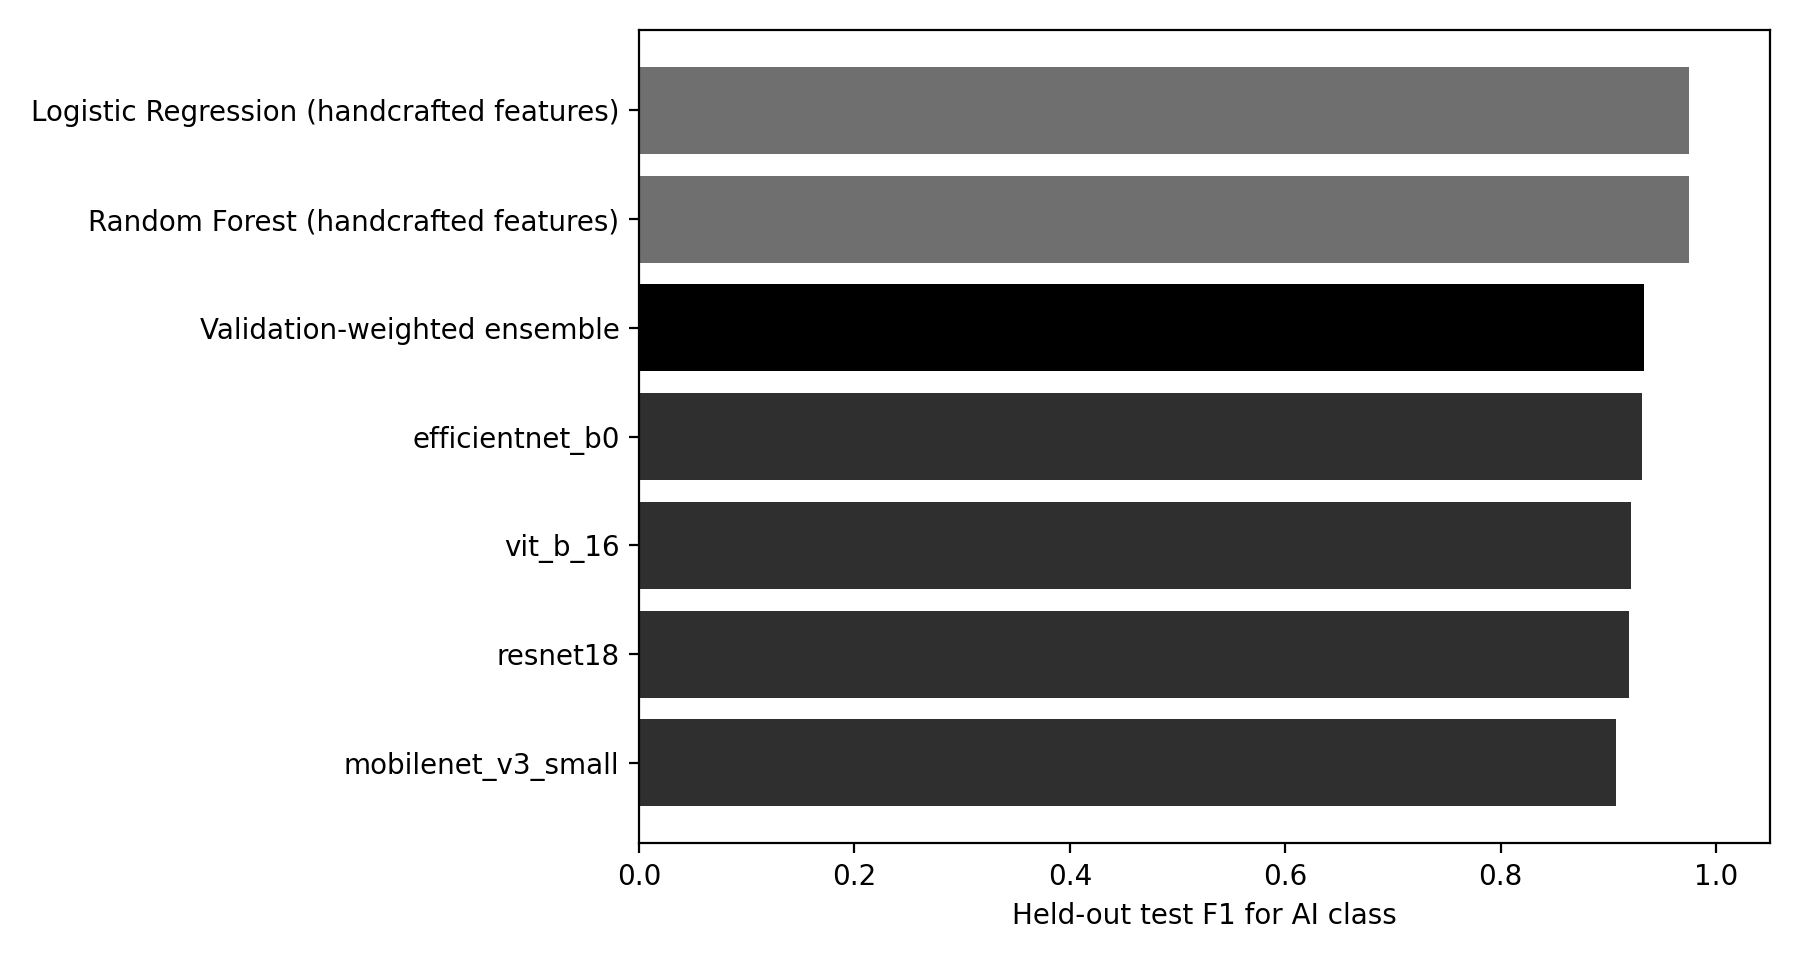
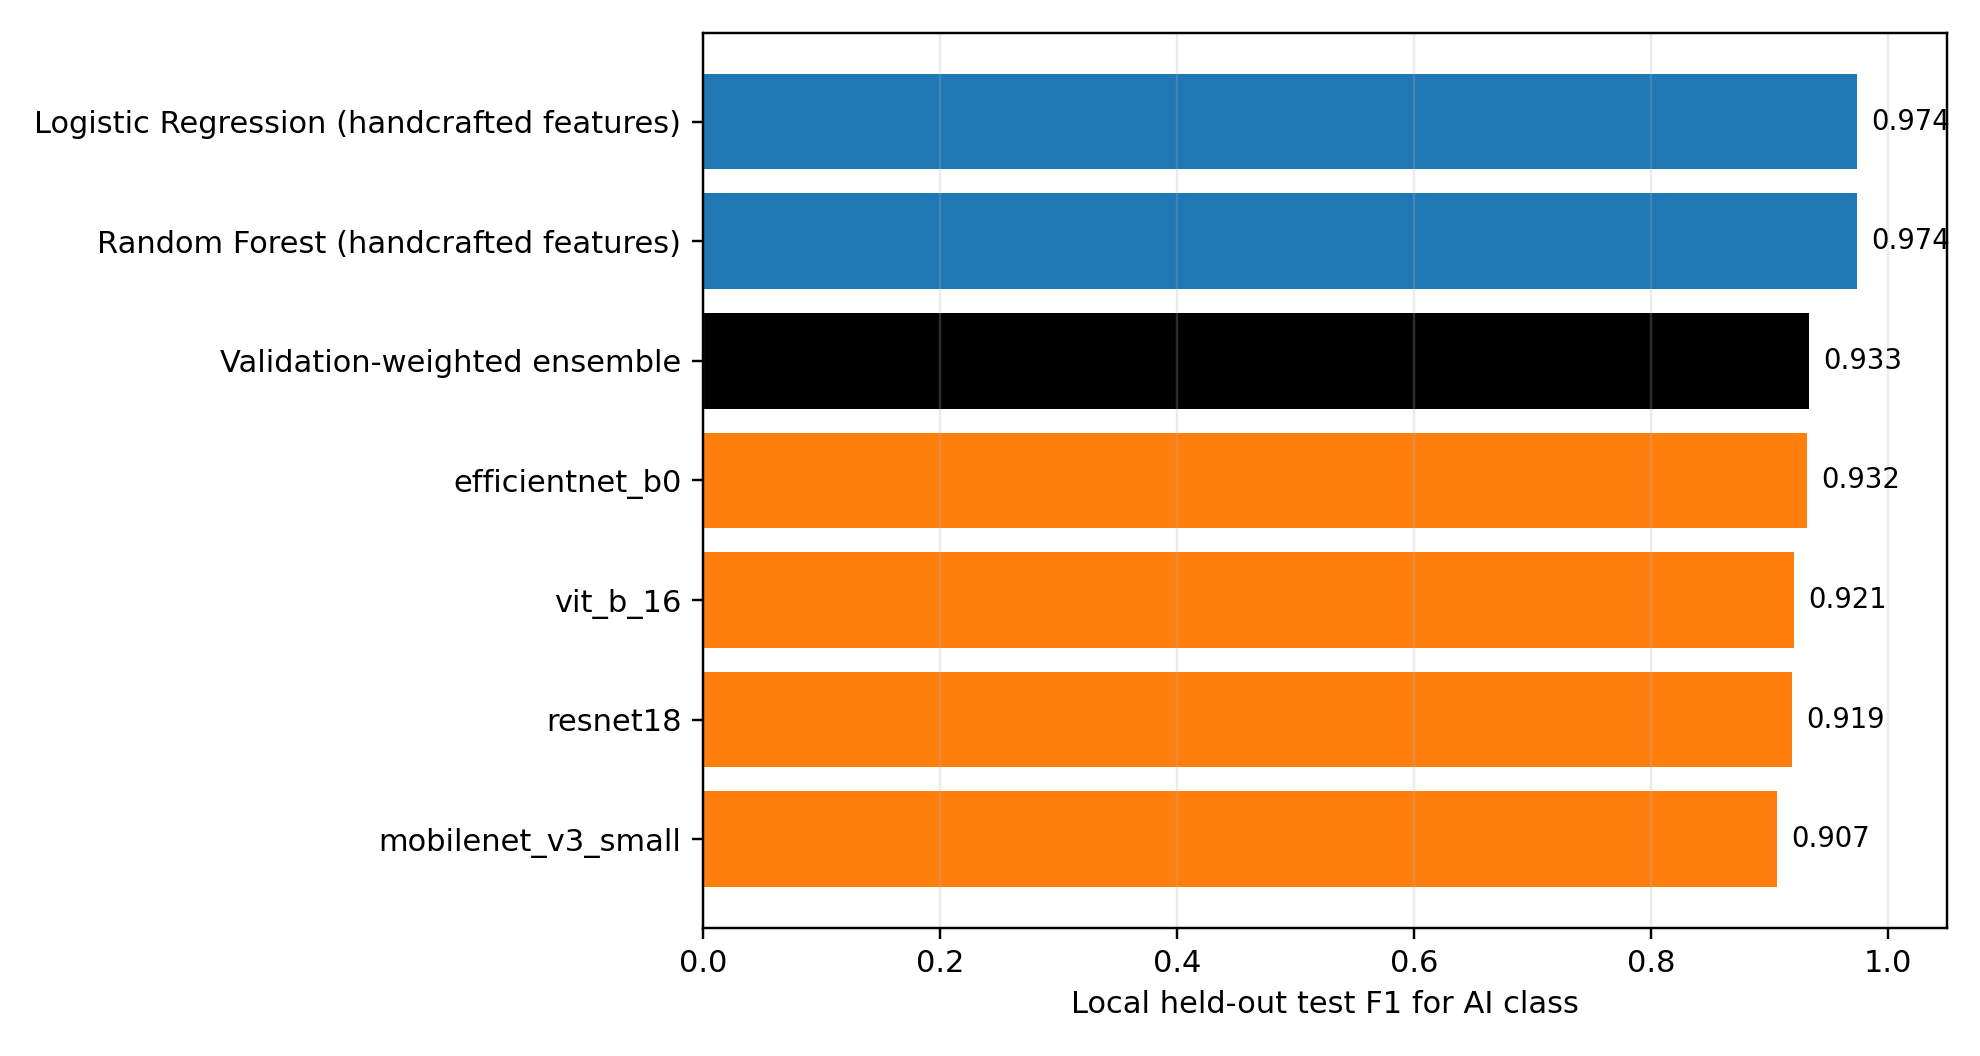
Remove stale report artifacts and normalize labels

diff --git a/compare_course_vs_transfer.py b/compare_course_vs_transfer.py
@@ -215,12 +215,12 @@ def train_course_models(df: pd.DataFrame):
         val_prob = model.predict_proba(x_val)[:, AI_CLASS_ID]
         threshold = best_threshold(y_val, val_prob)
         val_metrics = metric_dict(y_val, val_prob, threshold)
-        val_metrics.update({"model": name, "model_family": "Course ML", "split": "validation"})
+        val_metrics.update({"model": name, "model_family": "Classical ML", "split": "validation"})
         rows.append(val_metrics)
 
         test_prob = model.predict_proba(x_test)[:, AI_CLASS_ID]
         test_metrics = metric_dict(y_test, test_prob, threshold)
-        test_metrics.update({"model": name, "model_family": "Course ML", "split": "test"})
+        test_metrics.update({"model": name, "model_family": "Classical ML", "split": "test"})
         rows.append(test_metrics)
 
     return pd.DataFrame(rows)
@@ -343,12 +343,12 @@ def evaluate_transfer_models(df: pd.DataFrame):
         val_ensemble = np.average(np.vstack([val_probs_by_model[name] for name in order]), axis=0, weights=weights)
         ensemble_threshold = best_threshold(y_val_ref, val_ensemble)
         val_metrics = metric_dict(y_val_ref, val_ensemble, ensemble_threshold)
-        val_metrics.update({"model": "Validation-weighted ensemble", "model_family": "Final Ensemble", "split": "validation"})
+        val_metrics.update({"model": "Validation-weighted ensemble", "model_family": "Local Ensemble", "split": "validation"})
         rows.append(val_metrics)
 
         test_ensemble = np.average(np.vstack([test_probs_by_model[name] for name in order]), axis=0, weights=weights)
         test_metrics = metric_dict(y_test_ref, test_ensemble, ensemble_threshold)
-        test_metrics.update({"model": "Validation-weighted ensemble", "model_family": "Final Ensemble", "split": "test"})
+        test_metrics.update({"model": "Validation-weighted ensemble", "model_family": "Local Ensemble", "split": "test"})
         rows.append(test_metrics)
 
         cm = confusion_matrix(y_test_ref, test_ensemble >= ensemble_threshold, labels=[0, 1])
@@ -383,9 +383,9 @@ def main():
     test_results = all_results[all_results["split"] == "test"].copy()
     plt.figure(figsize=(9, 4.8))
     colors = {
-        "Course ML": "#6f6f6f",
+        "Classical ML": "#6f6f6f",
         "Transfer Learning": "#2f2f2f",
-        "Final Ensemble": "#000000",
+        "Local Ensemble": "#000000",
     }
     bar_colors = [colors.get(family, "#444444") for family in test_results["model_family"]]
     plt.barh(test_results["model"], test_results["f1_ai"], color=bar_colors)

diff --git a/tiny_genimage_5k_compare.py b/tiny_genimage_5k_compare.py
@@ -339,7 +339,7 @@ def main():
         threshold = best_threshold(y_val, val_prob)
         test_prob = model.predict_proba(x_test)[:, AI_CLASS_ID]
         metrics = metric_dict(y_test, test_prob, threshold)
-        metrics.update({"model": model_name, "model_family": "Course ML", "split": "test"})
+        metrics.update({"model": model_name, "model_family": "Classical ML", "split": "test"})
         rows.append(metrics)
         print(model_name, metrics)
 
@@ -354,7 +354,7 @@ def main():
     ].sort_values("f1_ai", ascending=False)
     results.to_csv(OUT_DIR / "tiny_genimage_5k_model_comparison.csv", index=False)
 
-    colors = {"Course ML": "#1f77b4", "Transfer Learning": "#ff7f0e"}
+    colors = {"Classical ML": "#1f77b4", "Transfer Learning": "#ff7f0e"}
     plt.figure(figsize=(7.6, 3.4))
     plt.barh(results["model"], results["f1_ai"], color=[colors.get(x, "#2ca02c") for x in results["model_family"]])
     plt.xlabel("Tiny GenImage 1k test F1 for fake class")
